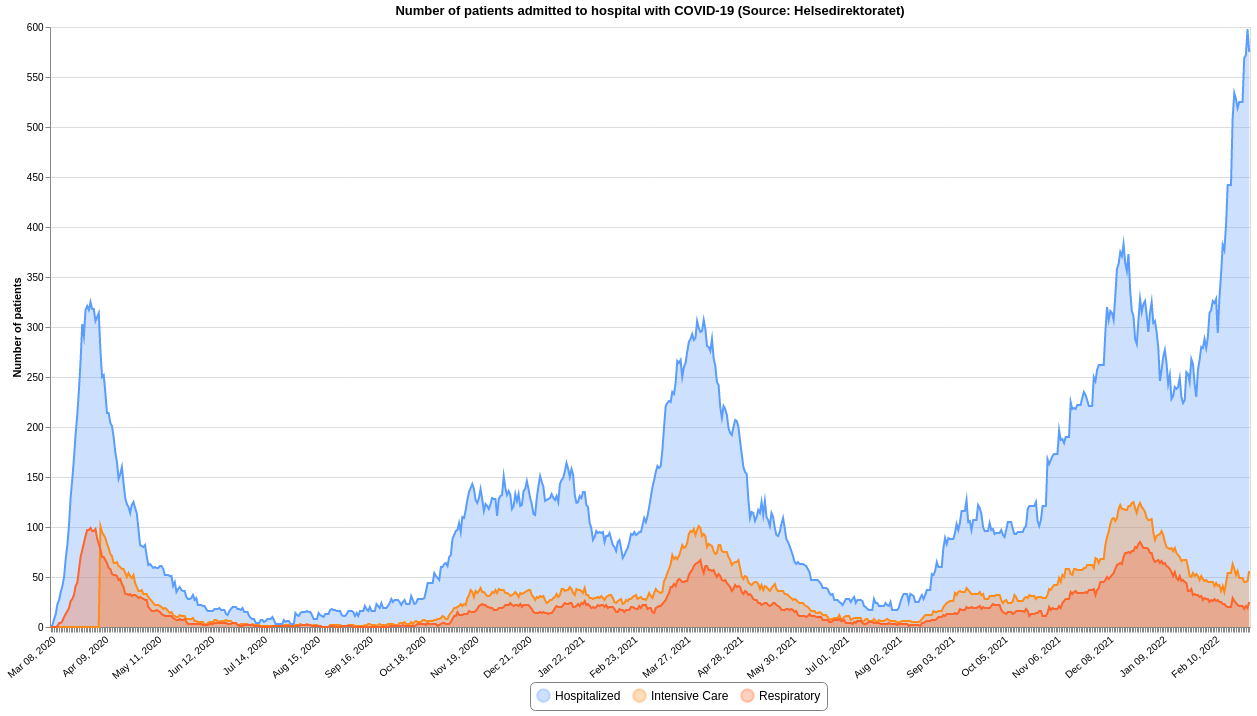
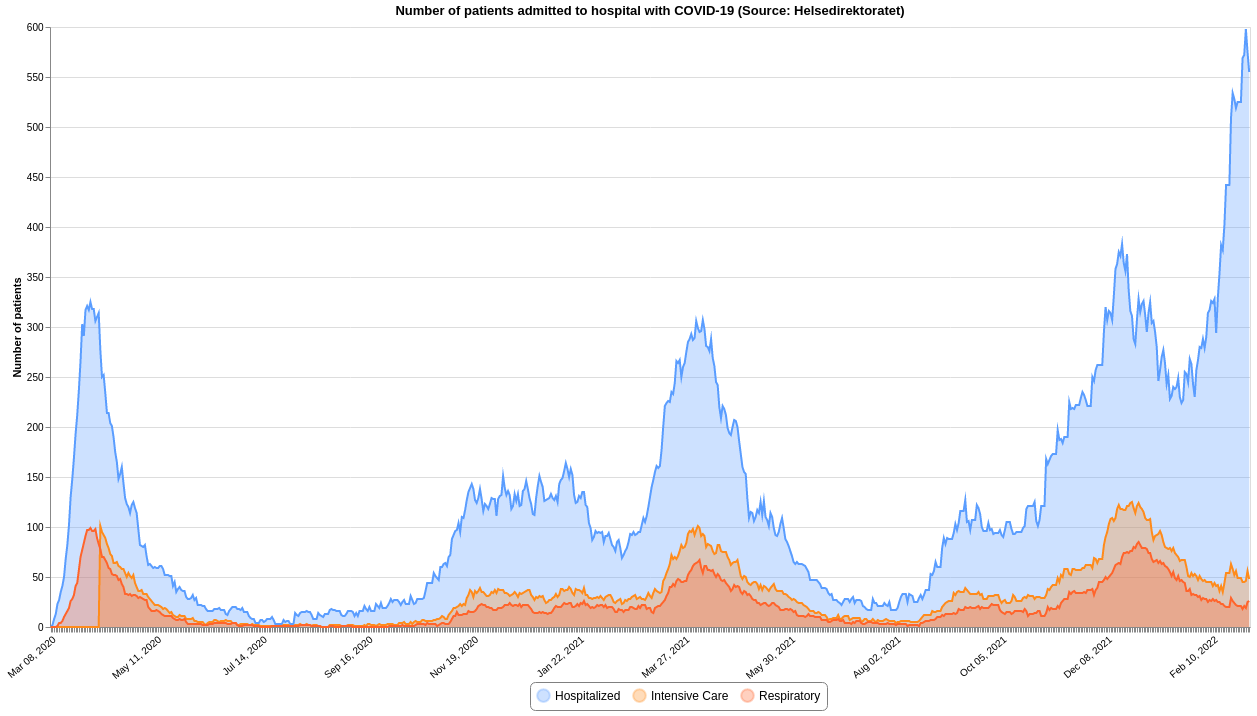
Updated 2022-03-04 12:20

diff --git a/README.md b/README.md
@@ -12,7 +12,7 @@ This repository contains datasets of daily time-series data related to COVID-19 
 | :--- | :--- | :--- | :--- | :--- |
 |[Confirmed](#confirmedcsv)|FHI / MSIS|2022-03-04 00:20:46+01:00|[<center>csv</center>](https://raw.githubusercontent.com/frefrik/covid19norge-data/main/data/confirmed.csv)|[<center>preview</center>](data/confirmed.csv)|
 |[Dead](#deadcsv)|FHI|2022-03-03 13:20:57+01:00|[<center>csv</center>](https://raw.githubusercontent.com/frefrik/covid19norge-data/main/data/dead.csv)|[<center>preview</center>](data/dead.csv)|
-|[Hospitalized](#hospitalizedcsv)|Helsedirektoratet|2022-03-03 12:50:50+01:00|[<center>csv</center>](https://raw.githubusercontent.com/frefrik/covid19norge-data/main/data/hospitalized.csv)|[<center>preview</center>](data/hospitalized.csv)|
+|[Hospitalized](#hospitalizedcsv)|Helsedirektoratet|2022-03-04 12:20:45+01:00|[<center>csv</center>](https://raw.githubusercontent.com/frefrik/covid19norge-data/main/data/hospitalized.csv)|[<center>preview</center>](data/hospitalized.csv)|
 |[Tested](#testedcsv)|FHI|2022-03-03 13:00:53+01:00|[<center>csv</center>](https://raw.githubusercontent.com/frefrik/covid19norge-data/main/data/tested.csv)|[<center>preview</center>](data/tested.csv)|
 |[Tested Lab](#tested_labcsv)|FHI|2022-03-03 13:20:52+01:00|[<center>csv</center>](https://raw.githubusercontent.com/frefrik/covid19norge-data/main/data/tested_lab.csv)|[<center>preview</center>](data/tested_lab.csv)|
 |[Transport](#transportcsv)|FHI|2021-09-24 23:10:46+02:00|[<center>csv</center>](https://raw.githubusercontent.com/frefrik/covid19norge-data/main/data/transport.csv)|[<center>preview</center>](data/transport.csv)|
